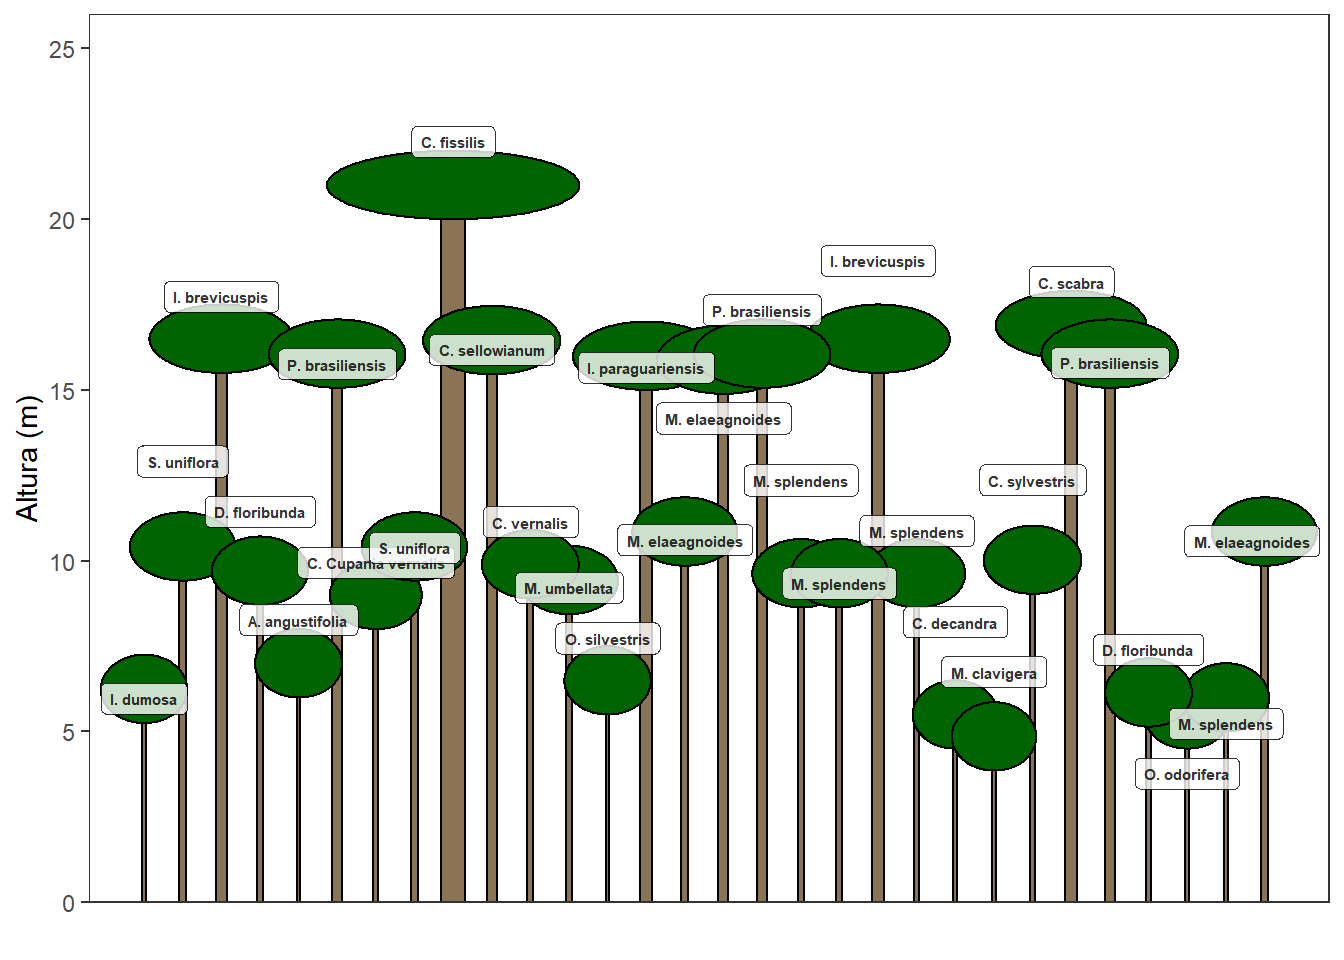
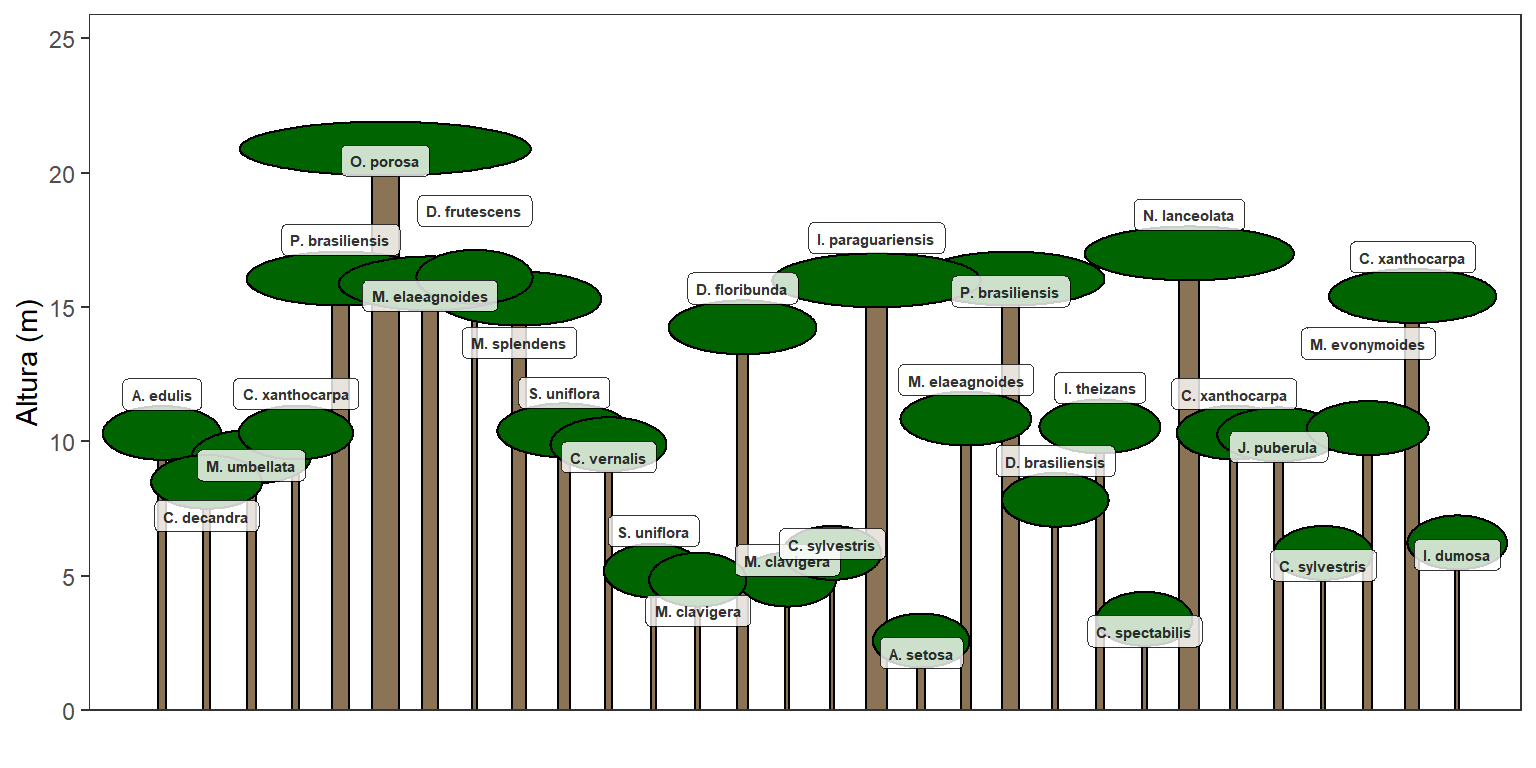
revisão post perfil esquemático

diff --git a/content/post/2019-10-31-ilustrando-o-perfil-esquematico-de-uma-comunidade-florestal.html b/content/post/2019-10-31-ilustrando-o-perfil-esquematico-de-uma-comunidade-florestal.html
@@ -118,15 +118,15 @@ return(perfil)
 quantidade_de_arvores &lt;- 30
 # Executar função
 perfil_esquematico(quantidade_de_arvores)</code></pre>
-<p><img src="/post/2019-10-31-ilustrando-o-perfil-esquematico-de-uma-comunidade-florestal_files/figure-html/unnamed-chunk-3-1.png" width="672" />
+<p><img src="/post/2019-10-31-ilustrando-o-perfil-esquematico-de-uma-comunidade-florestal_files/figure-html/unnamed-chunk-3-1.png" width="768" />
 Como a ilustração é criada em função de probabilidades de ocorrência das espécies em cada estrato, se executarmos a função novamente utilizando o mesmo parâmetro, teremos uma nova representação.</p>
 <pre class="r"><code># Executar função
 perfil_esquematico(quantidade_de_arvores)</code></pre>
-<p><img src="/post/2019-10-31-ilustrando-o-perfil-esquematico-de-uma-comunidade-florestal_files/figure-html/unnamed-chunk-4-1.png" width="672" />
+<p><img src="/post/2019-10-31-ilustrando-o-perfil-esquematico-de-uma-comunidade-florestal_files/figure-html/unnamed-chunk-4-1.png" width="768" />
 Podemos também variar a quantidade de indivíduos.</p>
 <pre class="r"><code># Executar função
 perfil_esquematico(20)</code></pre>
-<p><img src="/post/2019-10-31-ilustrando-o-perfil-esquematico-de-uma-comunidade-florestal_files/figure-html/unnamed-chunk-5-1.png" width="672" />
+<p><img src="/post/2019-10-31-ilustrando-o-perfil-esquematico-de-uma-comunidade-florestal_files/figure-html/unnamed-chunk-5-1.png" width="768" />
 Como o procedimento de sorteio arredonda o número de árvores a serem sorteadas em cada estrato vertical (afinal não temos como sortear 1,5 árvores) a função pode retornar um erro caso quantidade total de árvores sorteadas seja inferior ao número declarado na função.
 A função pode ser customizada de inúmeras maneiras. Utilizei um cálculo genérico para gerar o diâmetro das copas pois não possuo esses registros na base de dados utilizada nesse exemplo, no entanto, altura e diâmetro de copa, se coletados, podem ser utilizados para dimensionar as elipses que representam as copas das árvores. A função <code>geom_ellipse</code> que plota as elipses está implementada no pacote <code>ggforce</code>.<br />
 Os nomes científicos são apresentados no gráfico via função <code>geom_label_repel</code> do pacote <code>ggrepel</code>. A diferença entre esta função e a <code>geom_label</code> do <code>ggplot</code> é que a primeira não permite a sobreposição dos labels, facilitando a visualização. Outra opção é plotar um número de identificação ao invés do nome, diminuindo a quantidade de textos no gráfico. Neste caso, seria necessário apresentar, na sequência do gráfico, uma tabela que vincula os números às espécies.</p>
